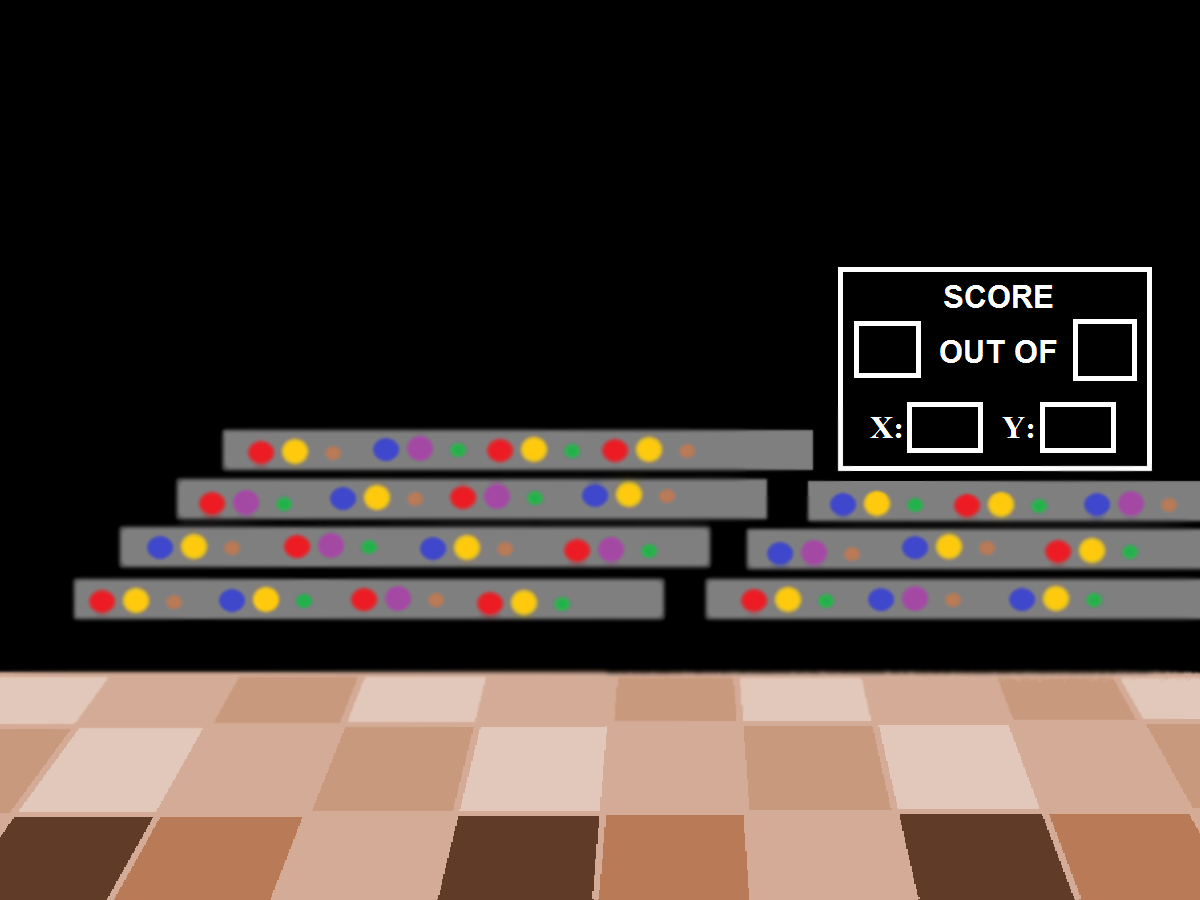
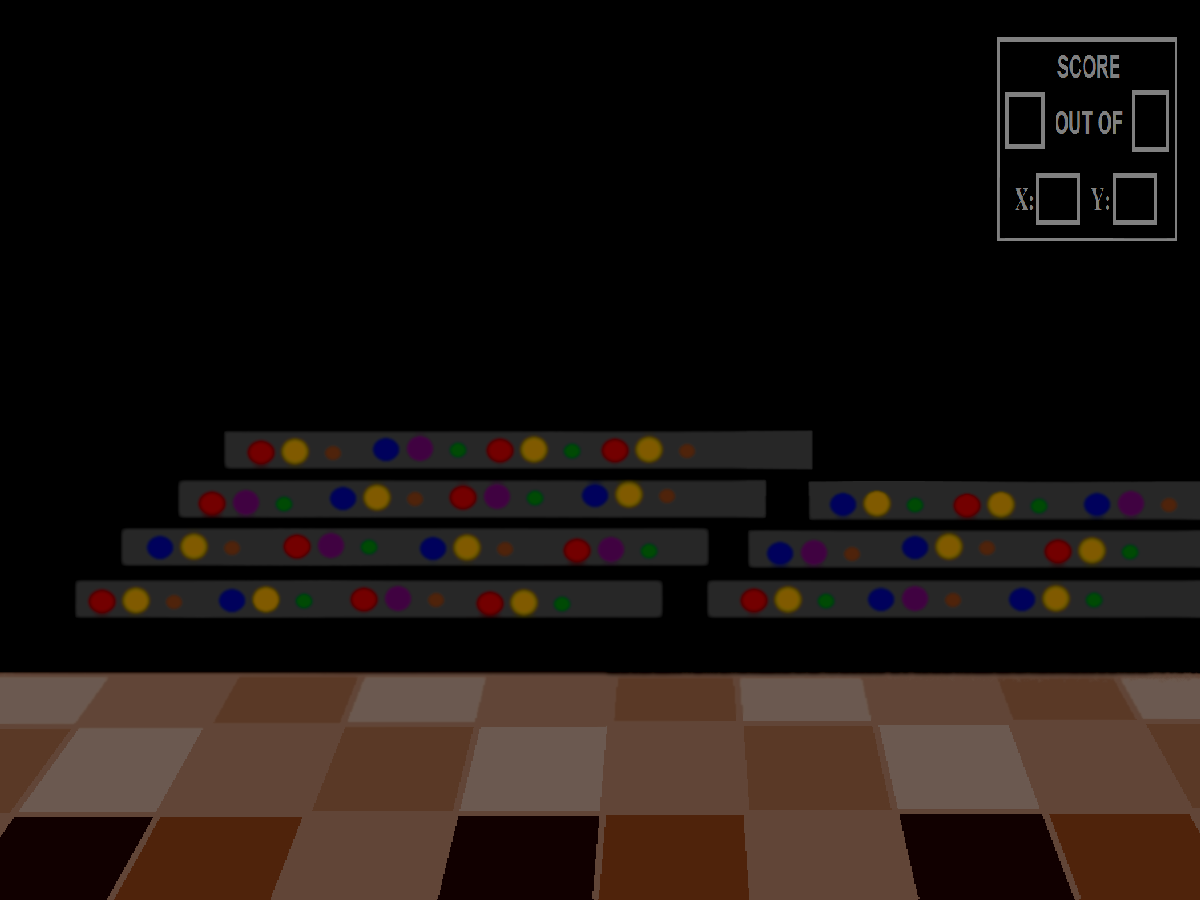
added images and put them in the games

diff --git a/Example.activity/game/Racing.py b/Example.activity/game/Racing.py
@@ -438,7 +438,6 @@ class RacingMain(spyral.Scene):
 
 
     def on_enter(self):
-        bg = spyral.Image(size=(WIDTH,HEIGHT))
-        bg.fill([0, 0, 0, 255]) # @TODO: magic
-        bg.draw_rect([100, 100, 100, 255], [0, UPPER_BOUND], [WIDTH, HEIGHT]) # @TODO: magic
-        self.camera.set_background(bg)
+        background = spyral.Image(filename="images/racing/background.png")
+        background.draw_rect([100, 100, 100, 255], [0, UPPER_BOUND], [WIDTH, HEIGHT]) # @TODO: magic
+        self.camera.set_background(background)
